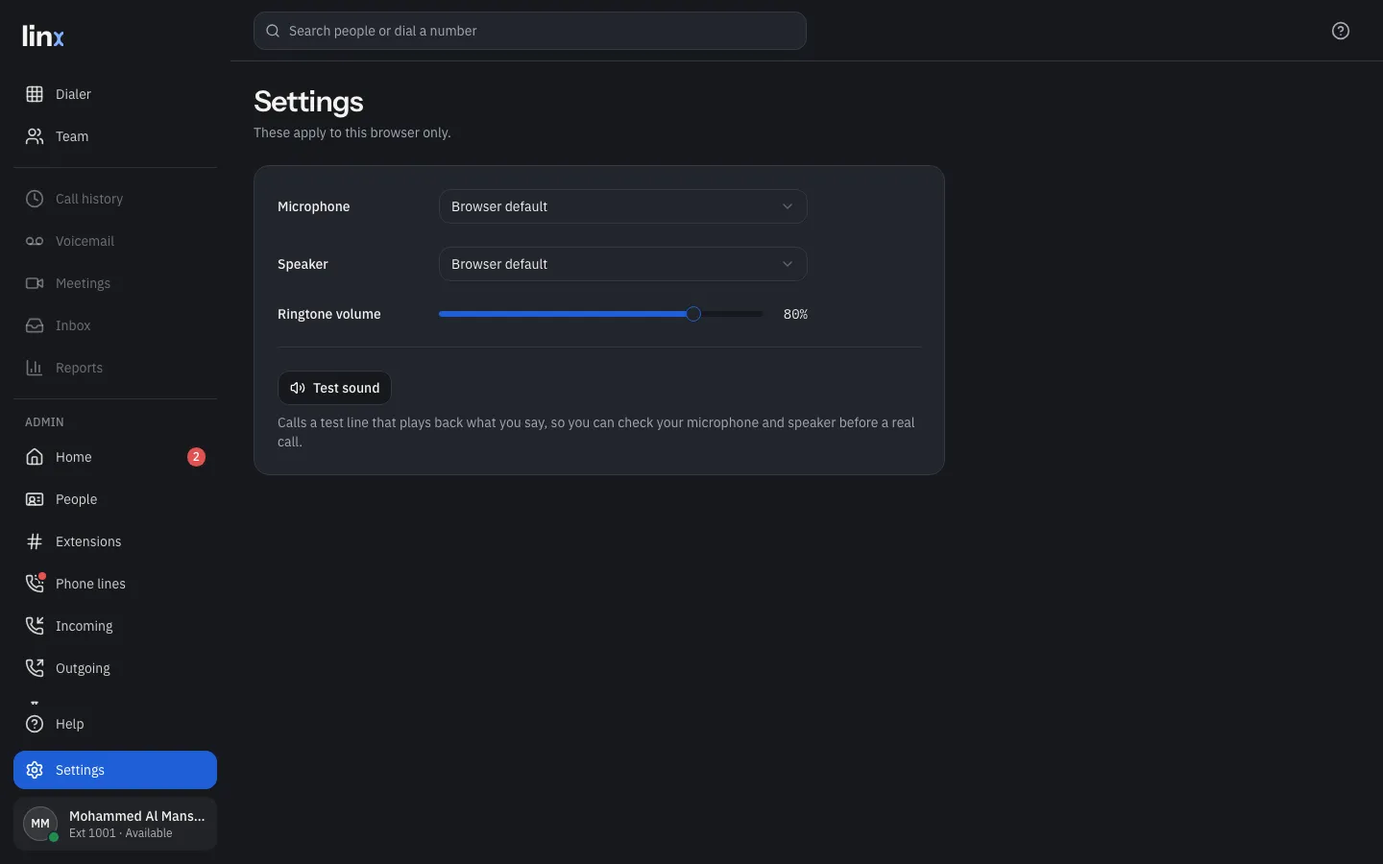
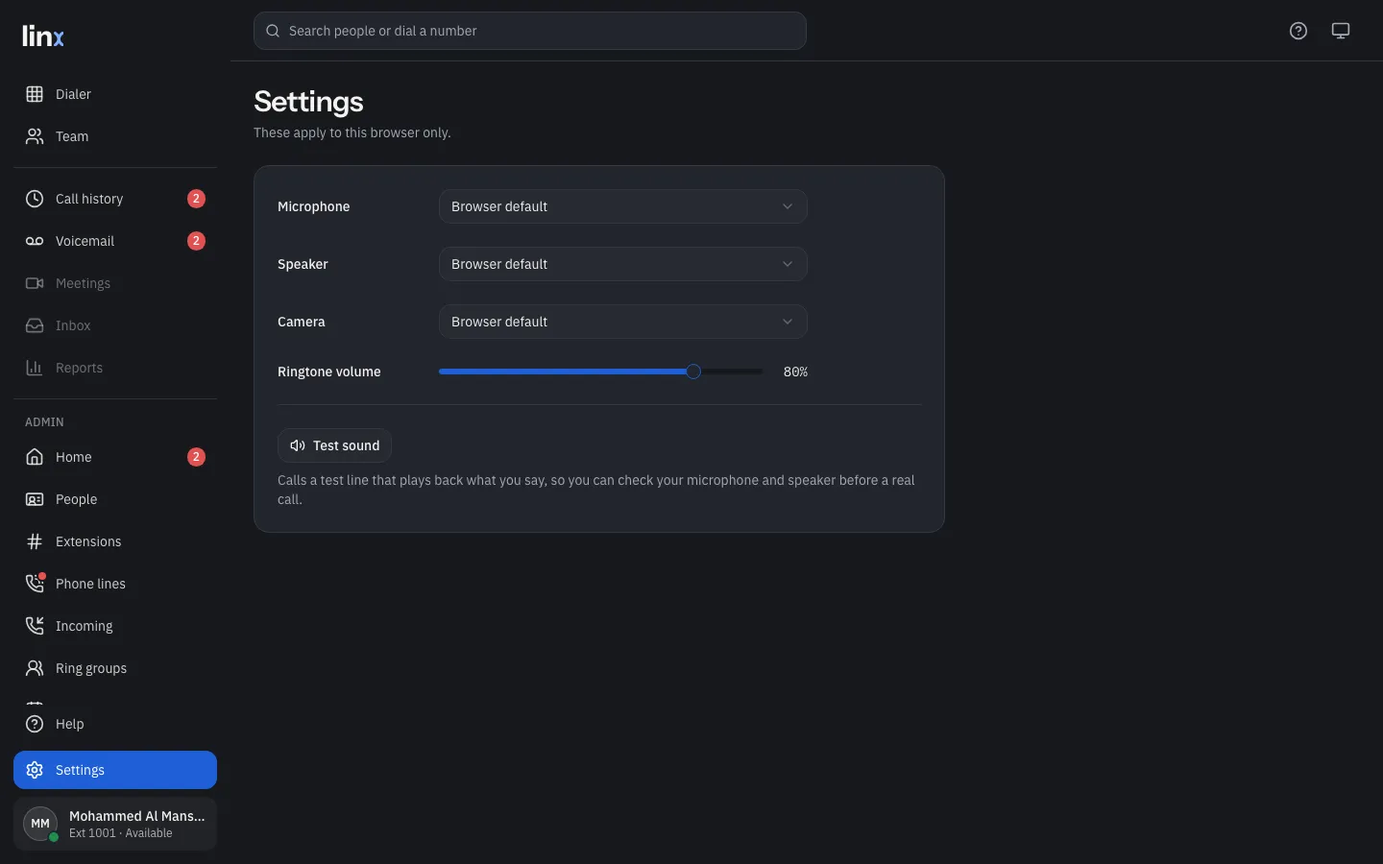
Docs and build 27: video calls device to device, group calls
docs/VIDEO_CALLS.md §9 as built; ADR-087/088 described in PBX, the
architecture table, the threat model (a video-and-group-calls review) and
resources (linx-livekit idles at about 60 MB; livekit-client 146 KB,
loaded only for a group call). Help guides: browser video calls and group
calls, and the app's. An invitation from a video call joins with the
camera on, in the browser and the app. App build 27.

Claude-Session: https://claude.ai/code/session_01EoSCBWDKWy6VASLQMKqTyy

diff --git a/ios/Linx/Features/Phone/PhoneModel.swift b/ios/Linx/Features/Phone/PhoneModel.swift
@@ -623,9 +623,11 @@ import UIKit
     /// The group call's room, once this call is one.
     private var groupRoom: String?
 
-    private func joinGroup(_ join: GroupJoin) {
+    /// `camera`: whether this phone's camera goes on in the group call — on
+    /// if it was on in the call, or for an invitation from a video call.
+    private func joinGroup(_ join: GroupJoin, camera: Bool? = nil) {
         guard group == nil, let media = liveMedia, let line = lineInUse else { return }
-        guard let people = media.joinGroup(join, server: line.server) else {
+        guard let people = media.joinGroup(join, server: line.server, camera: camera ?? media.video.mine) else {
             problem = "Linx couldn't join the group call."
             return
         }
@@ -642,7 +644,7 @@ import UIKit
         guard let line = lineInUse, let callID = agent?.callID else { return }
         do {
             let join = try await LinxClient(server: line.server).joinGroupCall(call: callID, token: line.token)
-            joinGroup(join)
+            joinGroup(join, camera: call?.videoCall ?? false)
         } catch {
             problem = "Linx couldn't join the group call."
         }

diff --git a/web/src/phone/line.ts b/web/src/phone/line.ts
@@ -329,9 +329,8 @@ export class PhoneLine {
 
   /** Moves this call onto the video server: the group call takes over the
    * sound and the picture, and the phone call's own sound goes quiet. */
-  private joinGroup(join: GroupJoin) {
+  private joinGroup(join: GroupJoin, camera = this.picture?.state.mine ?? false) {
     if (this.group) return;
-    const camera = this.picture?.state.mine ?? false;
     this.picture?.stop();
     this.picture = null;
     this.session?.mute({ audio: true });
@@ -411,7 +410,9 @@ export class PhoneLine {
   /** An answered invitation: the server says which group call it was. */
   private async joinInvitation(callId: string) {
     const { data } = await api.POST("/api/v1/group-calls/join", { body: { call: callId } });
-    if (data) this.joinGroup(data);
+    // Invited from a video call: the camera comes on, as answering any
+    // video call turns it on.
+    if (data) this.joinGroup(data, this.state.call?.videoCall ?? false);
     else this.set({ problem: "Linx couldn't join the group call." });
   }
 

diff --git a/ios/Linx/Core/Media/WebRTCMedia.swift b/ios/Linx/Core/Media/WebRTCMedia.swift
@@ -401,10 +401,9 @@ struct CallDiagnostics: Equatable, Sendable {
     /// takes over the sound and the pictures, and this call's own sound
     /// goes quiet both ways — the phone call stays only so the call is
     /// still a call, for the system, the Team list and history.
-    func joinGroup(_ join: GroupJoin, server: URL) -> GroupPeople? {
+    func joinGroup(_ join: GroupJoin, server: URL, camera: Bool) -> GroupPeople? {
         if let group { return group.state }
         guard let socket = GroupCall.socket(server: server, join: join) else { return nil }
-        let camera = video.mine
         picture?.stop()
         picture = nil
         audio?.isEnabled = false

diff --git a/ios/LinxTests/CallTests.swift b/ios/LinxTests/CallTests.swift
@@ -109,8 +109,11 @@ import Testing
     /// The group calls this call was moved into.
     private(set) var groupsJoined: [GroupJoin] = []
     var inGroup: Bool { !groupsJoined.isEmpty && !stopped }
-    func joinGroup(_ join: GroupJoin, server: URL) -> GroupPeople? {
+    /// Whether each group call was joined with the camera on.
+    private(set) var groupCameras: [Bool] = []
+    func joinGroup(_ join: GroupJoin, server: URL, camera: Bool) -> GroupPeople? {
         groupsJoined.append(join)
+        groupCameras.append(camera)
         return GroupPeople()
     }
     var hd: [Bool] = []

diff --git a/ios/Linx/Core/SIP/SIPUserAgent.swift b/ios/Linx/Core/SIP/SIPUserAgent.swift
@@ -101,7 +101,7 @@ struct AudioRoute: Equatable, Sendable {
     var onGroupEnded: ((String) -> Void)? { get set }
     /// Moves the call onto the video server: its sound and pictures go
     /// there, and the phone call's own sound goes quiet. Nil if it can't.
-    func joinGroup(_ join: GroupJoin, server: URL) -> GroupPeople?
+    func joinGroup(_ join: GroupJoin, server: URL, camera: Bool) -> GroupPeople?
     /// In a group call: the phone call may end without the call ending.
     var inGroup: Bool { get }
     /// The **HD** button: whether this phone's picture may go above 540p.

diff --git a/docs/PBX.md b/docs/PBX.md
@@ -54,6 +54,7 @@ The `asterisk` schema holds **views only**: `ps_endpoints`, `ps_aors`, `ps_auths
 - **Waking a sleeping app phone (2026-10-04, ADR-074, Phase 2 step 5):** an iPhone or iPad whose app isn't connected can't be rung by SIP at all, so before a step rings its phones the dialplan gosubs **`linx-wake`**: `LINX_WAKE(targets)` (migrations 0042, 0043 and 0045) names the app phones among the devices about to be dialled that **can** be reached by a push — the server has an Apple key, the phone sent a push token, and the phone is still set up — and says how long to wait for them. From 2026-10-04 that includes a phone where Apple doesn't allow CallKit (mainland China, ADR-078), which has no VoIP token and is instead sent a time-sensitive notification to tap; the call waits for it just the same. The dialplan leaves out any that are already registered (`DEVICE_STATE`) — and only a device state Asterisk actually answered counts as “already here”, so a phone is woken when the answer is empty rather than silently skipped (fixed 2026-10-04: the image had neither `func_devstate` nor `func_logic`, `${DEVICE_STATE(…)}` and `${IF(…)}` came out empty, and no push was ever sent) — sends `UserEvent(LinxWake, …)` with the call's id, the phones' AORs and the caller's number, starts ringback for the caller (`Ringing()`), and then waits in quarter-second steps until every woken phone is registered or the wait runs out (10 seconds by default since migration 0048, at most 15). Then the step dials **all** its phones as before, and the first to answer takes the call. The control plane's ARI app turns that user event into a VoIP push to Apple (`internal/push`); nothing in the dialplan knows about Apple, and a server with no key (or none of its phones with a token) never waits at all, because `linx_wake` answers nothing. The time from the push to that phone registering is what `linx_push_wake_seconds_total` measures. Since migration 0045 the phones it can reach are one view, `device_wakeable`, which the **Team list** reads too: a person whose app isn't running is still reachable, because ringing them wakes it (owner, 2026-10-04, “don't treat the app as a browser”), and reading the same view keeps what the list says and what actually rings from drifting apart.
 - **Listening to your own messages from a phone (2026-10-05, ADR-083, Phase 2 step 9b):** dialling **`*97`** hands the call to the control plane (`Stasis(linx,voicemail)`), which answers it and plays. **Whose messages is decided there, from the endpoint the channel belongs to** — never from anything the phone sent or the dialplan passed — so a phone can only ever hear its own extension's box. Each message is read out of the database into a folder only Asterisk reads (`/var/lib/linx/voicemail-play`, in memory, one message at a time, removed as soon as it has played), announced as "Message from" and the caller's number a digit at a time, and played. **1** hears it again, **2** moves on, **3** deletes it; with no key pressed the next one follows in three seconds. A message heard to the end stops being new (the same rule the web app follows); one skipped stays new. A box that is switched off, or an extension with no box, hears so and nothing else. With the control plane away `Stasis` comes straight back and the caller hears "nobody can take your call right now".
 - **The message-waiting light (2026-10-05, ADR-083, Phase 2 step 9b):** the lamp or envelope on a desk phone. Asterisk sends the NOTIFY, but the count is **given** to it rather than worked out by it: the image carries `res_mwi_external` (so no `app_voicemail`, ADR-069 still holds) and the control plane sets each box's new and old counts over ARI — at every change to anybody's messages, and again whenever Asterisk reconnects, because a phone engine that has just restarted knows nothing. Only what changed is sent, so a quiet system sends nothing. Migration 0046 puts the box's name (a person's box is their extension's id) on that person's **desk phones and softphones** only: the web app and the iPhone app count their own new messages and show a badge, and an unsolicited NOTIFY on a browser's line would be noise. **A phone that asks is the path that is proved:** nearly every desk phone SUBSCRIBEs for `message-summary` when it signs in, Asterisk answers from the AOR's `mailboxes` and notifies it on every change (the call suite drives exactly that with SIPp and reads `Messages-Waiting: yes` out of the NOTIFY). The endpoint's own `mailboxes` is set as well, for the unsolicited notification a phone that never asks would need — but Linx's endpoints live in the database, and Asterisk cannot enumerate realtime endpoints to set those subscriptions up at start, so a phone that doesn't ask may not be told. `mwi_subscribe_replaces_unsolicited` keeps a phone that does ask from being told twice.
+- **Video calls and group calls (2026-10-13, ADR-087, ADR-088):** Asterisk carries **sound only** for the app and the browser (migration 0052). A video call is **`X-Linx-Video: yes`** on the device's INVITE; `linx-local` reads it into `__LINXVIDEO` (PJSIP_HEADER, `res_pjsip_header_funcs`), every Dial in `linx-ring` runs **`linx-headers`** on each leg it rings (Dial's `b()`), which adds `X-Linx-Video` and, for a group call's invitation, `X-Linx-Room`, and the wake push's `Video:` comes from the same variable. The picture itself never touches Asterisk: the two devices set up a direct link over the control plane's **call link** (`GET /api/v1/call-link`), which finds each device's own channel by its SIP Call-ID (`protocol_id`) and pairs it with that channel's `BRIDGEPEER`. **Add person** (`POST /api/v1/group-calls`) moves both people to a LiveKit room and rings the new person with an ARI originate of `Local/<extension>@linx-room-invite` (variables `__LINXROOM`, `__LINXVIDEO`): that context rings the extension through `linx-ring` exactly as a call would — the wake push included — with no voicemail or next step, and the originate's other half waits in the Stasis app (argument `room`) until the call ends.
 - **ARI app (control plane):** Asterisk connects **out** to the control plane over a websocket on `linx-private` (ARI outbound websocket, so the control plane doesn't have to find Asterisk and Asterisk reconnects on its own). The control plane subscribes to channel, bridge, device-state and registration events. It uses them for:
   - device "last registered" and online state (`GET /devices` shows it),
   - webhook events `call.started`, `call.answered`, `call.ended` (from, to, duration; no audio, no content),

diff --git a/docs/help/iphone-and-ipad.md b/docs/help/iphone-and-ipad.md
@@ -85,11 +85,11 @@ A call that comes in while the app is open rings on the phone and shows **Answer
 
 ## Video calls
 
-The blue **Video call** button (a camera) rings someone as a video call: your camera is on from the start, their phone shows it is a video call while it rings, and answering turns their camera on. Either of you can tap **Stop video** at any time and the call carries on as an ordinary call. Calling someone whose phone can't show a picture — a desk phone, or the browser for now — simply rings as an ordinary call. You can also add a picture to a call that's already up: tap **Video**. Their camera only comes on when they answer a video call or tap **Video** themselves, never because somebody else pressed a button.
+The blue **Video call** button (a camera) rings someone as a video call: your camera is on from the start, their phone or browser shows it is a video call while it rings, and answering turns their camera on. Between two people using Linx the picture goes straight from one to the other, so turning a camera on or off happens at once and never disturbs the call. Either of you can tap **Stop video** at any time and the call carries on as an ordinary call. Calling a desk phone or an outside number, which can't show a picture, simply rings as an ordinary call, and **Video** stays greyed out. You can also add a picture to a call that's already up: tap **Video**. Their camera only comes on when they answer a video call or tap **Video** themselves, never because somebody else pressed a button.
 
 *The screen stays on* for as long as there is a picture in the call — it never dims or locks itself halfway through, and only the power button turns it off. A call with no picture leaves the screen to iOS as usual, and goes dark at your ear.
 
-In a video call you see them on the big screen and yourself in the corner — *tap either picture to swap them over*, so your own camera takes the big screen and theirs moves to the corner, and tap again to put them back. If only your camera is on, *your own picture takes the big screen* — a call with one camera on is a perfectly ordinary call. **Stop video** puts the camera away and the call carries straight on as a phone call; **Flip camera** swaps the front camera for the back one. Turning the camera on over mobile data takes a second or two, and the button says so while it works. The picture follows your connection, up to 540p, or up to 720p with **HD** on: tap the **HD** badge under the caller's name (solid when on, an outline when off). HD is off at the start of every call because 720p uses nearly twice the data (about 12 MB a minute each way instead of 7), and it only changes the picture *you* send. On a slower connection the picture drops to whatever that link can carry, and it changes while you talk — down the moment the connection tightens, back up once it has been comfortable for a few seconds. On a call going through your Linx server's relay it stays inside what the relay will carry. If the connection gets too poor for any picture at all, Linx turns your camera off by itself and tells you: a call you can hear is worth more than one you can see. **Call details** (tap the **Encrypted · …** line) says which size you are sending. On an iPad, the front camera uses **Center Stage**: it keeps you in the middle of the picture as you move. Switch it off in Control Center → **Video Effects** if you prefer a still frame.
+In a video call you see them on the big screen and yourself in the corner — *tap either picture to swap them over*, so your own camera takes the big screen and theirs moves to the corner, and tap again to put them back. If only your camera is on, *your own picture takes the big screen* — a call with one camera on is a perfectly ordinary call. **Stop video** puts the camera away and the call carries straight on as a phone call; **Flip camera** swaps the front camera for the back one. Turning the camera on over mobile data takes a second or two, and the button says so while it works. The picture follows your connection, up to 540p, or up to 720p with **HD** on: tap the **HD** badge under the caller's name (solid when on, an outline when off). HD is off at the start of every call because 720p uses nearly twice the data, and it only changes the picture *you* send. On a slower connection the picture gets smaller by itself and recovers as the connection does. If the connection gets too poor for any picture at all, Linx turns your camera off by itself and tells you: a call you can hear is worth more than one you can see. **Call details** (tap the **Encrypted · …** line) says which size you are sending. On an iPad, the front camera uses **Center Stage**: it keeps you in the middle of the picture as you move. Switch it off in Control Center → **Video Effects** if you prefer a still frame.
 
 The screen lays itself out for whatever you're holding: upright, turned on its side, and on an iPad (or an iPhone that opens out) the picture on one side and the buttons on the other.
 
@@ -98,6 +98,11 @@ The screen lays itself out for whatever you're holding: upright, turned on its s
 In mainland China Apple doesn't allow calls on the lock screen, so Linx rings inside the app there instead: a call arrives as a notification you tap, and the app rings its own screen. The app says so on **This phone** when that's where it is.
 
 Every call is encrypted both ways, and the app has no password of any kind on it — it asks Linx for a one-time phone line each time it starts.
+
+
+## Group calls
+
+In a call with someone else using Linx, tap **Add person** at the top of the call and pick someone from the Team list. Their phones ring with an invitation to a group call (a sleeping iPhone is woken for it, like any call), and when they answer, everyone sees and hears everyone, in a grid that highlights whoever is speaking. Tap **Add person** again for more, up to 8 people. **Mute**, **Start video** and **Stop video** work as in any call; **End** leaves the group call, and the others carry on. Desk phones and outside numbers can't join a group call yet.
 
 ## Calls when the app isn't open (admins)
 

diff --git a/handoff.md b/handoff.md
@@ -2,7 +2,7 @@
 
 **What this file is for.** The first thing to read when a session starts (or after `/clear`), and the last thing to update before one ends. It carries only what a fresh session needs to pick the work up: where we are, what is in play, what has already been tried and failed, and what comes next. The long record lives in `docs/HISTORY.md`; the rules live in `CLAUDE.md`. If this file and those disagree, `CLAUDE.md` and `docs/HISTORY.md` win and this file should be corrected.
 
-Last updated: **2026-10-09** (see §6 "2026-10-09 — start here"); before that **2026-10-05 (late)**, after Phase 2 was built out to **step 10**, **TestFlight build 14** was uploaded, **release management** was settled (ADR-084), and a **full pre-production security pass** was done — static review, fuzzing, image scans, and active testing against a local throwaway — with every finding fixed. The next move is the owner's: update `home.mym.ae`, run the Phase 2 close-out demo, then tag **1.0.0** and go live.
+Last updated: **2026-10-13** (see §6 "2026-10-13 — start here": video calls device to device, group calls on LiveKit, build 27); before that **2026-10-09**; before that **2026-10-05 (late)**, after Phase 2 was built out to **step 10**, **TestFlight build 14** was uploaded, **release management** was settled (ADR-084), and a **full pre-production security pass** was done — static review, fuzzing, image scans, and active testing against a local throwaway — with every finding fixed. The next move is the owner's: update `home.mym.ae`, run the Phase 2 close-out demo, then tag **1.0.0** and go live.
 
 ---
 
@@ -100,6 +100,10 @@ Phase by phase, each finished with a demo the owner approved. **Every step's det
 
 ## 5. Failed attempts (the whole project)
 
+- **Video through Asterisk (2026-10-04 to 2026-10-12, builds 7–26).** Asterisk relays video without the feedback two WebRTC ends need (loss, bandwidth, "send a fresh picture"), and a camera change was a re-INVITE through it to each side in turn, so pictures stuttered, HD did nothing, and a change could leave one side without the other's picture. Fixed by taking the picture off Asterisk altogether (ADR-087); don't put video back through it.
+- **A plain reverse proxy for a long-lived websocket** through the control plane: the server's 30-second read/write timeouts stay on the hijacked connection. Relay the messages instead (`/livekit/`, like `/sip`).
+- **LiveKit's app kit in the iPhone app:** a second copy of WebRTC that fights the first for the audio session CallKit owns. The app speaks LiveKit's protocol itself (`LiveKitWire`) on its one WebRTC.
+
 - **A long batch of commits can hide a red CI (2026-10-07).** A new npm advisory turned the security job red on a docs/website commit, and later pushes cancelled that run before anyone looked. Check `gh run list` for *failure*, not just the newest run's status. Also: `make security` didn't cover `site/` until that day.
 - **Astro 7 doesn't run remark plugins by default** (its new Markdown engine). It needs `@astrojs/markdown-remark` installed, or the build stops at config time.
 - **A context7 version can lag.** It gave Astro 6.3.1 when 7.3.6 was current. Check `npm view <pkg> version` before pinning.
@@ -176,6 +180,8 @@ The useful half of the record: **do not try these again.**
 ---
 
 ## 6. Next step
+
+**▶ 2026-10-13 — start here.** Owner's go (2026-10-12): *"Do one to one and add people as well."* Built and committed locally: ADR-087 (one-to-one pictures device to device over the call link; Asterisk sound only, migration 0052), ADR-088 (Add person → group call on `linx-livekit`), the browser's video and group calls, the app's (`DirectPicture`, `LiveKitWire`, `GroupCall`), **build 27**. Proved: call suite, coturn suite, browser suite on linx-443 (browser video both ways with camera off/on; video call to a desk phone; a three-person group call), app tests, and the app's LiveKit code against a real LiveKit (`LiveKitLiveTests`). **Next:** push, CI green on all five front doors, upload build 27, then the owner updates home.mym.ae (back up first; new service `linx-livekit` and its secret come with `linx setup`; no new ports) and tries: an iPad↔iPhone video call (answer while waking, camera off/on, HD), a browser↔app video call, and Add person with three people. Read People → Call records if anything is off. The old iPhone device entry still needs removing.
 
 **▶ 1.0.0 re-released 2026-10-07 (owner's decision: replace it while unused).** Downloads showed only Claude's own test fetches, so the old `v1.0.0` release was deleted and re-cut at **`2ff6506`** (every country, ADR-085; help guides on the website; coming-soon labels). Every Release job succeeded, including the first run of the new **`changelog`** job, which committed `99022ea Changelog: Linx 1.0.0`; linxpbx.com/changelog shows it. The GitHub release uses `docs/release-notes/v1.0.0.md`. **The next release is 1.1.0 or a patch:** write `docs/release-notes/<tag>.md` first (`docs/ops/RELEASES.md`). The owner's fresh install of 1.0.0 (step 3 below) is still to do.
 

diff --git a/docs/VIDEO_CALLS.md b/docs/VIDEO_CALLS.md
@@ -1,6 +1,6 @@
 # Linx — video calls that work: one to one, and adding people
 
-*Owner's go-ahead 2026-10-12 ("Do one to one and add people as well"), after build 26's video call between their iPad and iPhone was poor: one-way picture, no sound from the iPad, slow to start, never smooth. ADR-087 and ADR-088 record the decisions; this file is the design and the build order.*
+*Owner's go-ahead 2026-10-12 ("Do one to one and add people as well"), after build 26's video call between their iPad and iPhone was poor: one-way picture, no sound from the iPad, slow to start, never smooth. ADR-087 and ADR-088 record the decisions; this file is the design and the build order. **Built 2026-10-13: §9.***
 
 ## 1. In plain words
 - **Calls still ring exactly as they do now:** push, the lock screen, CallKit, Answer, the browser's ring. Desk phones and outside numbers are untouched.
@@ -71,3 +71,13 @@ Nothing new for a 1:1 call: the picture no longer passes through Asterisk at all
 - Moving the sound onto the direct link too (lip sync, one less hop) if measurement says so.
 - Desk phones and outside numbers in a group call: Phase 3, `livekit-sip`.
 - The 4.5 s between the iPhone sending its answer and Asterisk receiving it on the 22:29 call: looked at in step 3.
+
+## 9. As built (2026-10-13)
+
+- **Server:** `internal/calllink` (the hub, and the ARI resolver: `protocol_id`, `BRIDGEPEER`, `LINXROOM`, the originate), `services/control-plane/calllink.go`, `groupcall.go` (`POST /api/v1/group-calls`, `/join`, `/{room}/people`) and `livekit.go` (the `/livekit/` websocket relay, `/rtc` and `/rtc/validate` only: a plain reverse proxy would have been cut by the server's 30-second timeouts); `internal/livekit` (configuration, HS256 tokens, `ListParticipants` over Twirp); `services/livekit-entrypoint` and `deploy/docker/livekit.Dockerfile` (the official v1.13.9 binary on distroless as nonroot; LiveKit's key reaches it through the environment because it refuses a key file that isn't 0600). Migration 0052; the dialplan's `linx-headers` and `linx-room-invite`; coturn's three peers; `linx doctor`, System → Status, CI and the release workflow know `linx-livekit`. `Permissions-Policy` now allows this origin's camera.
+- **LiveKit's network:** it advertises **one address, its own on `linx-media`**, and publishes no port at all. Every device reaches it through coturn, over UDP where the network allows and TLS 443 where it doesn't — the same path browsers have always used to reach Asterisk from outside. LiveKit's own TURN and outside-address lookups are off.
+- **Browser:** `web/src/phone/picture.ts` (the direct picture, perfect negotiation), `web/src/phone/group.ts` (`livekit-client`, loaded only when a group call starts: simulcast, dynacast, adaptive stream), the call panel's pictures, camera button, **Add person** and group grid; a camera choice in Settings.
+- **App:** `DirectPicture` (the direct picture and `CallLinkSocket`), `LiveKitWire` (the protobuf messages, by hand from LiveKit's `livekit_rtc.proto`, protocol 12) and `GroupCall` (publisher and subscriber connections on the call's own WebRTC factory, one camera layer at 540p), `GroupCallView` and `AddPersonSheet`. SIP's video code, the quality ladder and the frame watch are gone.
+- **Proved here:** the call suite (the call link finds each device's own leg on the real Asterisk); the coturn suite (one device's relay reaches another's); the browser suite (a browser video call with the cameras going off and on, a video call to a desk phone falling back to sound, a three-person group call with Add person, an invitation, everyone seeing everyone, and people leaving one by one); the app's tests (SIP never carries a picture; a group call survives the phone call underneath it) and `LiveKitLiveTests` against a real LiveKit server.
+- **Not proved until the owner's phones:** the app's picture and group call over real networks — the browser and the app speak the same call link and LiveKit, but only a real iPhone and iPad show the camera, the audio session under CallKit and 5G together.
+- **Left for later:** presence for people in a group call (they show as on a call only while the phone call underneath lasts), simulcast from the app, and desk phones in group calls (Phase 3, `livekit-sip`).

diff --git a/docs/HISTORY.md b/docs/HISTORY.md
@@ -172,3 +172,9 @@ The CLAUDE.md "Now" notes as they stood when Demo B was approved (2026-10-03), w
   - **Video calls ring as video (owner, ADR-086).** Green **Call** with a handset, Cobalt **Video call** with a camera, in Team, on a person's card, on the keypad and in the browser (where it is marked *Coming soon*). The wake push says it is a video call, the lock screen shows it, answering turns the camera on, and a phone that can't do video answers an ordinary call.
   - **Build 25 (same day):** the first video call on build 24 rang the woken iPhone (the late wake worked: 11 s on 5G) but Answer did nothing. It was pressed while the call was still on its way, and the app dropped an answer for a call it didn't have yet; iOS took the call as answered and showed no Answer again. Now an Answer in that gap is remembered and the call is answered the moment it arrives.
   - **Build 26 (same day):** the owner's iPhone showed its first setup screen with nobody having signed it out, and Linx had never refused it. The app now remembers that it was set up and which button last signed it out, and when it starts without its sign-in it writes down what the Keychain said and sends that to Linx (as a record beside the call records) once it is set up again. A Keychain that is only locked (a phone woken before its first unlock) is waited for, not taken as "not set up".
+
+**Video calls that work, and group calls (2026-10-13, build 27 and a server update, ADR-087, ADR-088, `docs/VIDEO_CALLS.md`).** Build 26's video call between the owner's iPad and iPhone (2026-10-12 22:29) was poor on a good network: one-way picture, no sound from the iPad, slow to start, never smooth. Both phones' call records and Asterisk's log showed the network was fine (iPad direct 3 ms, iPhone relayed over UDP 29 ms); the trouble was the path. Asterisk relays video without the feedback two WebRTC ends need, and each camera change was a re-INVITE through it to each side in turn: the iPhone's answer and its camera offer reached Asterisk together 4.5 s late, and the iPad never showed the iPhone's picture. The owner chose, in order: video not through Asterisk; LiveKit; the browser too; then one-to-one device to device with Add person on LiveKit, built now ("Do one to one and add people as well").
+  - **One to one:** the picture goes straight between the two Linx devices, set up over the control plane's call link, which trusts only Asterisk's own channels to say who is talking to whom. A video call is `X-Linx-Video` on the INVITE; Asterisk carries sound only (migration 0052). Camera on and off is the link's business, with no re-INVITE and no prompt in a video call. The browser does video calls now.
+  - **Group calls:** Add person moves the call into a LiveKit room and rings the new person through Asterisk with an invitation. Up to 8 people; each leaves on their own. `linx-livekit` is a new service with no published port (media through coturn, signalling through the control plane at `/livekit/`): about 60 MB idle.
+  - **Found on the way:** the web's own `Permissions-Policy` forbade the camera (`camera=()`, from the sound-only days); Asterisk's image lacked `res_pjsip_header_funcs` (the call suite's "every dialplan function is in the image" check caught it); a websocket through a plain reverse proxy would have been cut by the control plane's 30-second timeouts, so `/livekit/` relays websocket messages instead.
+

diff --git a/docs/THREAT_MODEL.md b/docs/THREAT_MODEL.md
@@ -585,3 +585,17 @@ Every country (ADR-085) and the list of countries calls abroad may reach.
 - **Extension clashes.** In North America extensions can't start with 1 and 911 is reserved; the existing clash check (national prefix, international prefix, emergency and service numbers) is country-driven and needed no change; the wizard's suggested ranges now avoid the prefix up front.
 - **Busy tone.** A country without a known tone isn't listened for; a wrong tone is never heard. Neither can end a call early.
 
+
+## Video calls and group calls review (2026-10-13, ADR-087, ADR-088)
+
+| Threat (STRIDE) | Where | Mitigation |
+|---|---|---|
+| Spoofing: a device links its picture to a call it isn't in | `GET /api/v1/call-link` | The server finds the asking device's own channel through ARI, by its SIP Call-ID **and** its own endpoint, and pairs it only with that channel's `BRIDGEPEER`. Nothing the device says about the other side is used. |
+| Information disclosure: a direct link shows a device's addresses to the other person | the picture's WebRTC connection | As in any WebRTC call app. Only the other party of an answered call ever receives them, over the call link. |
+| Denial of service: a device floods the call link | the hub | 64 KB per message, 50 a second with a second's burst, 64 queued before a slow reader is cut off; the link closes with the call (checked every 15 s) and with the session or the phone. |
+| Elevation: coturn as a way into the server | `allowed-peer-ip` | Three addresses on `linx-media`, all Linx's: Asterisk, LiveKit and coturn's own relay address. TURN permissions still stop anyone sending to an allocation that didn't ask for them. `linx doctor` fails on any other peer or any other container on that network. |
+| Spoofing: joining a group call one wasn't asked into | `POST /api/v1/group-calls`, `/join`, `/{room}/people` | Tokens are minted only by the control plane: for the two devices Asterisk shows bridged in the call (and only when both call links are open), for a device whose own channel carries `LINXROOM` (set only by the control plane's originate), or for one LiveKit already lists in the room. Room names are random and remembered for 12 hours; 8 people at most. |
+| Information disclosure: LiveKit reachable from outside | `/livekit/` | Only `/rtc` and `/rtc/validate` are passed on; LiveKit's API stays on `linx-private`. A connection still needs a token signed with the key only the control plane and LiveKit hold (Docker secret `linx_livekit_secret`, 0440 root:65532). |
+| Information disclosure: group-call media | LiveKit | DTLS-SRTP to the server, as calls through Asterisk are. Not end-to-end encrypted: that stays Phase 3's meetings (ADR-002). |
+| Tampering: a page using the camera | `Permissions-Policy` | `camera=(self)`: this origin only, as the microphone has been since Phase 1C. |
+| Elevation: the control plane writing to Asterisk | ARI | One more write (ADR-088): an originate into `linx-room-invite`, which rings an extension the way a call to it does. Still read-write over the same authenticated, internal ARI link. |

diff --git a/docs/help/calls-in-the-browser.md b/docs/help/calls-in-the-browser.md
@@ -13,21 +13,31 @@ Linx is a phone in your browser. Keep the page open to get calls.
 
 ## Making a call
 
-In the **Dialer**, type a name, extension or number, then press the green call button. The blue video button beside it is marked *Coming soon*: video calls from the browser are on the way, and the iPhone and iPad app makes them today. Someone who video-calls you while you're in the browser rings as an ordinary call. Or search at the top of any page (**Search people or dial a number**), or press **Call** next to someone in [Team](team-and-presence).
+In the **Dialer**, type a name, extension or number, then press the green call button, or the blue **Video call** button beside it for a video call. Or search at the top of any page (**Search people or dial a number**), or press **Call** or **Video call** next to someone in [Team](team-and-presence).
 
-The first time, your browser asks to use the microphone. Allow it.
+The first time, your browser asks to use the microphone, and for a video call the camera. Allow them.
 
 ## Getting a call
 
-The call appears with the caller's name or number. Press **Answer** or **Decline**. If you have Linx open in several tabs, only one of them rings.
+The call appears with the caller's name or number, and says so when it's a video call or an invitation to a group call. Press **Answer** or **Decline**. Answering a video call turns your camera on. If you have Linx open in several tabs, only one of them rings.
 
 ## During a call
 
 - **Mute** and **Unmute** your microphone.
 - **Keypad** for menus that ask you to press a number.
+- **Turn camera on** and **Turn camera off**, at any time: the call carries on either way. **Full screen** makes the pictures fill the screen.
+- **Add person** brings someone else into the call (below).
 - **End call** to hang up.
 
-Audio is encrypted all the way between your browser and Linx.
+Sound and pictures are encrypted on their way.
+
+## Video calls
+
+Between two people using Linx — in a browser or the iPhone and iPad app — the picture goes straight from one to the other, and either of you can turn your camera off or on whenever you like. You see them large and yourself in the corner. A desk phone or an outside number can't show a picture, so a video call to one is an ordinary call and the camera button stays off. Choose which camera to use in **Settings**.
+
+## Group calls
+
+In a call with someone else using Linx, press **Add person** and pick someone from the list: their phones ring with an invitation to a group call, and when they answer, everyone sees and hears everyone. You can add more, up to 8 people. Each person leaves with **End call** and the others carry on. Desk phones and outside numbers can't join a group call yet.
 
 ## The echo test
 
